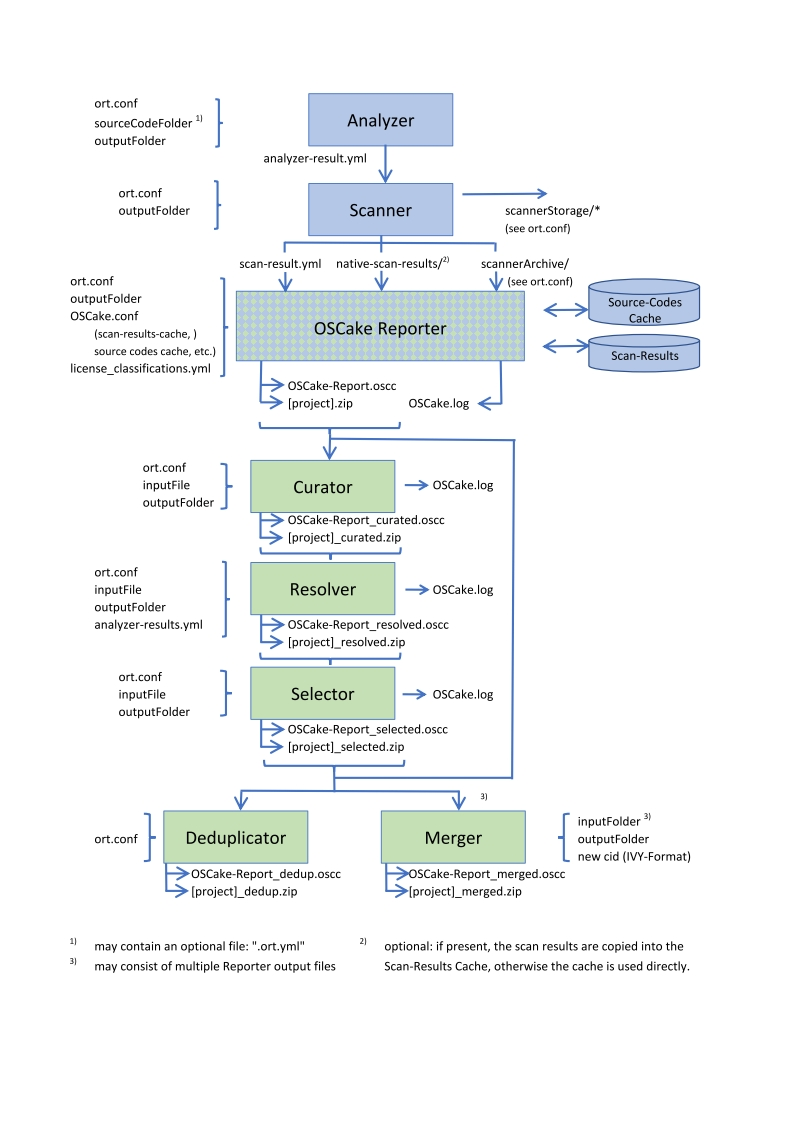
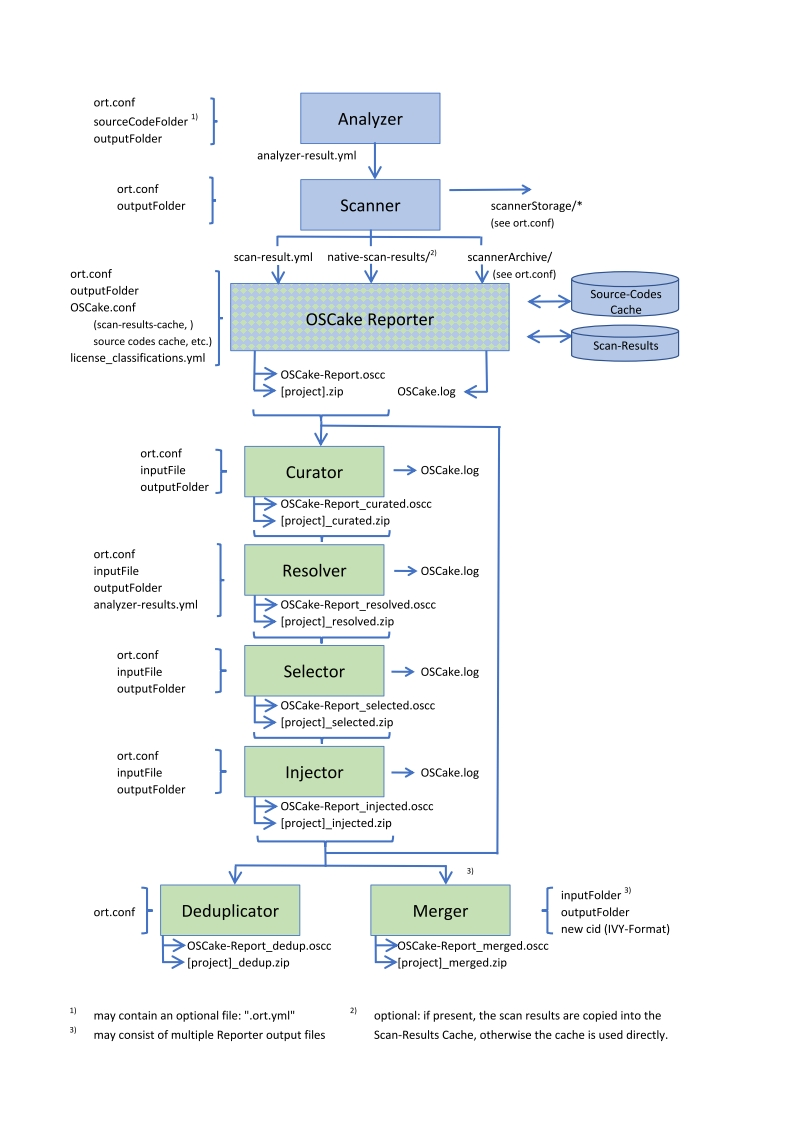
OSCake-App: Injector

diff --git a/docs/oscake-injector.md b/docs/oscake-injector.md
@@ -1,0 +1,86 @@
+# Update the info about "distribution" and "packageType" in a Package
+
+After creating an oscc-file by the *Reporter* the file contains information about the kind of distribution (*DISTRIBUTED, PREINSTALLED, DEV*) of a package and also its package type (*EXECUTABLE, LIBRARY*). The task of the *Injector* is to offer a posibility to change this information.
+
+## Configuration in ort.conf
+The Injector can be configured in the file `ort.conf` in the `oscake`-section:
+
+```ort { {
+...
+
+  oscake {
+  ...
+      injector {
+        distribution {
+           enabled = false
+           directory = "../injector/distribution"
+        }
+        packageType {
+           enabled = true
+           directory = "../injector/packageType"
+        }
+      issueLevel = 2	# -1..not enabled, 0..ERROR, 1..WARN + ERROR, 2..INFO + WARN + ERROR
+    }
+  ...
+``` 
+
+## Injector Actions
+In general, every *Injector* file consists of one or more packages, identified by the project-`id`. The `id` meets the requirements of the class `Identifier` in ORT and consists of: type (=package manager), name space, name and version of the package. This `id` is used as a selector for applying the injector actions to a specific package contained in the processed \*.oscc file. If the version is empty, the action will be applied to every package disregarding the version number. Additionally, the version number can be defined by means of an an IVY-expression - representing a certain range of version numbers ([some IVY-examples](http://ant.apache.org/ivy/history/2.4.0/settings/version-matchers.html)). If more than one action for a specific package is found, none of them will be applied. If a *Injector* action should be applied to the whole project, then the `id` must contain the keyword `[GLOBAL]`.
+
+Example to change the **distribution** information:
+
+```
+- id: "Maven:de.tdosca:tdosca-tc08:1.0"
+  distribution:
+    from: "DISTRIBUTED"
+    to: "DEV"
+- id: "Maven:com.github.peteroupc:numbers:1.8.0"
+  distribution:
+    from: "DISTRIBUTED"
+    to: "PREINSTALLED"
+- id: "[GLOBAL]"
+  distribution:
+    from: "DEV"
+    to: "PREINSTALLED"
+  ....
+```
+
+The *distribution* tag instructs the injector to change the kind of distribution. If the `from` information is different to the one found in the oscc-file, a warning is reported and the change is not applied. This check can be overridden by the commandline parameter `--ignoreFromChecks`.
+
+Example to change the **packageType** information:
+
+```
+- id: "Maven:de.tdosca:tdosca-tc08:1.0"
+  packageType:
+    from: "EXECUTABLE"
+    to: "LIBRARY"
+- id: "Maven:com.github.peteroupc:numbers:1.8.0"
+  packageType:
+    from: "LIBRARY"
+    to: "EXECUTABLE"
+- id: "[GLOBAL]"
+  packageType:
+    from: "LIBRARY"
+    to: "EXECUTABLE"
+  ....
+```
+
+The *packageType* tag instructs the injector to change the kind of package type. If the `from` information is different to the one found in the oscc-file, a warning is reported and the change is not applied. This check can be overridden by the commandline parameter `--ignoreFromChecks`.
+
+## Run the "Injector"
+
+The *Injector* uses the `directory`-entries from the config file to search for files in yml-syntax (with extension ".yml") which contain the specific actions. The directories may also contain subdirectories.
+
+Go to the installation directory of your ORT instance and run the following command:
+
+`cli\build\install\ort\bin\ort -c "[path to your ort.conf]/ort.conf" oscake -a injector -iI "[path to the oscc-file]/OSCake-Report.oscc" -iO "[path to the results directory]" --ignoreFromChecks`
+
+Depending on the `issueLevel` in `ort.conf` the resulting oscc-file contains a list of issues of different levels.
+
+## Output Files
+The *Injector* generates the following files:
+
+* `OSCake-Report_injected.oscc`: output file in *.oscc format 
+* `[pid]_injected.zip`: archive containing the license files (`pid` = project identifier in oscc-file)
+
+The input file is not changed during this process.

diff --git a/docs/configuration.md b/docs/configuration.md
@@ -24,6 +24,7 @@ An example of the `oscake.conf` may be found [here](./examples/versionJan2022_2/
 13. `hideSections = []` - contains a list of section names (*"config", "reuselicensings", "dirlicensings", "filelicensings"*) which are removed from the generated output - mostly for verification reasons. If the generated oscc-file has hidden sections no further processing (merging, deduplication, curation) is possible!
 14. `lowerCaseComparisonOfScopePatterns` defines if the `scopePatterns`, `scopeIgnorePatterns` and `copyrightScopePatterns` are applied to filenames in lower case (on Windows the comparison is always done on lower case names, whereas on UNIX systems upper and lower case rules are followed; if set to true on UNIX the results are equal to Windows)
 15. `licenseScoreThreshold` is the boundary for reporting a warning in the event that a license score is lower or equal  than this threshold. ATTENTION: the ORT-scanner may be configured to skip license findings under a specific threshold. Consequently, the option in the OSCake-Reporter may have no impact.
+16. `distributionMap`: This map allows to determine for each package if it is included in the distribution, if it will be preinstalled by the user or if it is used only for development. This mapping depends on the `scope(s)` of a package, which is set by ORT and derived from the settings of the used package manager. The `key` of the map represents this scope and may also consist of a regex expression. Furthermore, it can have a prefix describing that this mapping is only applied if this specific package manager is used. The setting of the `distribution` follows priority rules if more than one scope is mapped (from highest to lowest: *DISTRIBUTED*, *PREINSTALLED*, *DEV*)
 
 ## Configuration of the OSCake-Applications
 The options and parameters are documented in the descriptions of each OSCake-Application.

diff --git a/README.md b/README.md
@@ -17,7 +17,8 @@ Contains findings and documentation on OSCake - the *OSCake-Reporter* extension 
 | [ORT-integration.md] | Documentation on module **OSCake** - *for developers*. |
 | [oscake-curator.md] | How to run the **Curator** on \*.oscc files |
 | [oscake-resolver.md] | How to manage dual licensed packages with the **Resolver**|
-| [oscake-selector.md] | How to select a specific license from dual licensed packages with the **Selector**
+| [oscake-selector.md] | How to select a specific license from dual licensed packages with the **Selector**|
+| [oscake-injector.md] | How to change the distribution type and package type in packages with the **Injector**|
 | [oscake-deduplicator.md] | How to deduplicate license and copyright information with the **Deduplicator**|
 | [oscake-merger.md] | How to merge different output files from the OSCake-Reporter by running the **Merger**|
 
@@ -32,6 +33,7 @@ Contains findings and documentation on OSCake - the *OSCake-Reporter* extension 
 [ort-quick-fixes.md]: ./docs/ort-quick-fixes.md
 [oscake-resolver.md]: ./docs/oscake-resolver.md
 [oscake-selector.md]: ./docs/oscake-selector.md
+[oscake-injector.md]: ./docs/oscake-injector.md
 [ORT-integration.md]: ./docs/ORT-integration.md
 
 
